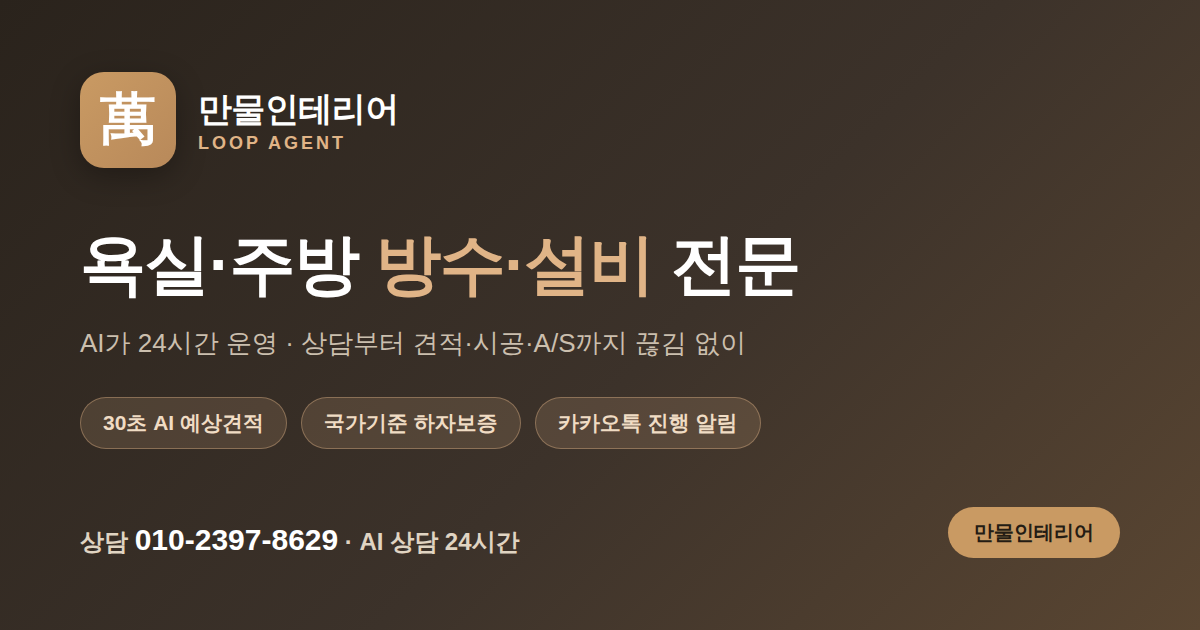
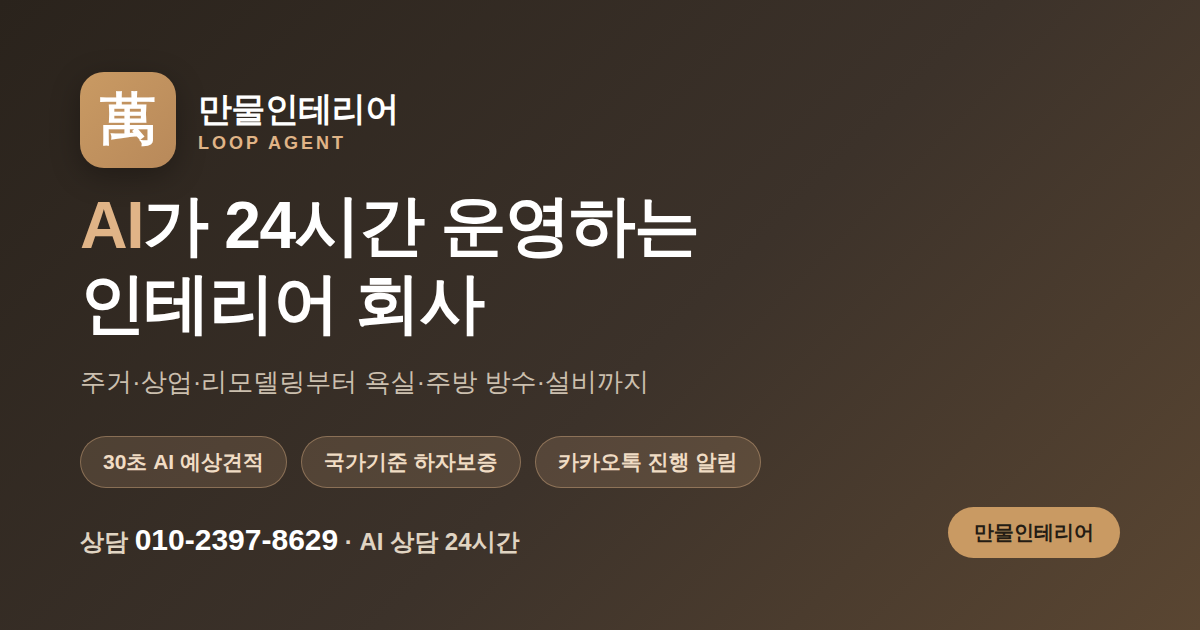
fix: 종합 인테리어 업체로 포지셔닝 정정 (방수 전문 아님) (#18)
* feat: AI가 운영하는 만물인테리어(Loop Agent) 웹사이트 구축

- 반응형 원페이지 사이트(index.html + css + js) 신규 추가
- AI 견적 시뮬레이터: 공간유형·면적·마감등급 기반 30초 예상 견적
- 히어로 AI 상담 챗봇 데모, 카운트업 통계, 스크롤 리빌 애니메이션
- 서비스/운영 프로세스/포트폴리오(필터)/리뷰/상담 폼 섹션
- 모든 콘텐츠를 data/site.json으로 분리하여 AI가 콘텐츠 운영 가능
- README를 프로젝트 소개/운영 가이드로 갱신

Claude-Session: https://claude.ai/code/session_01BxciST8GDcp2s474kRA1xc

* feat: n8n 워크플로·카카오톡 챗봇 연동 및 관리자 대시보드 추가

기획서(AI 운영형 홈페이지)의 웹→n8n→카카오톡→대표 승인 구조 구현.

- 단계형 AI 상담 문의 폼(4단계) → n8n 웹훅 전송(js/inquiry.js)
  · 미설정/데모 모드 시 localStorage 폴백
- 카카오톡 연동: 채널 상담 버튼(히어로·문의·연락처·FAB) + 설정 연결
- 관리자 대시보드(admin.html): 리드 목록·AI 1차 요약·우선순위 점수·
  승인/보류/거절(사람 승인 장치)·고객 안내문 초안(발송 분리)
- n8n 워크플로 2종(import용):
  · manmul-inquiry: 접수→AI요약(Claude)→DB저장→카카오 알림→대표 승인(Wait)→고객 발송
  · kakao-chatbot-skill: 카카오 i 오픈빌더 챗봇 스킬서버
- data/config.json: n8n 웹훅·카카오 채널 설정 분리
- integrations/INTEGRATION.md: 연동 가이드
- 기존 단순 상담 폼 제거, 관련 스타일/README 갱신

Claude-Session: https://claude.ai/code/session_01BxciST8GDcp2s474kRA1xc

* refactor: 관리자 목록 새로고침 훅(window.manmulAdminRefresh) 노출

단일 파일 데모의 화면 전환 등 외부에서 문의 목록을 다시 그릴 수 있도록
render 함수를 전역에 노출.

Claude-Session: https://claude.ai/code/session_01BxciST8GDcp2s474kRA1xc

* ci: GitHub Pages 자동 배포 워크플로 추가

정적 사이트를 GitHub Pages로 자동 배포. main 및 작업 브랜치 push 시 실행하며,
actions/configure-pages(enablement)로 Pages를 자동 활성화한다.

Claude-Session: https://claude.ai/code/session_01BxciST8GDcp2s474kRA1xc

* feat: 아파트멘터리형 사례 탐색 + n8n·카카오 자동화 프로세스 재구성

- 운영 방식 섹션을 "체계적·효율적 프로세스 = n8n·카카오톡"으로 재구성
[…]

Changed region(s): [[0.0617, 0.3016, 0.6783, 0.7841]]

diff --git a/index.html b/index.html
@@ -4,8 +4,8 @@
   <meta charset="UTF-8" />
   <meta name="viewport" content="width=device-width, initial-scale=1.0" />
   <title>만물인테리어 · Loop Agent — AI가 운영하는 인테리어 회사</title>
-  <meta name="description" content="욕실·주방 방수·설비 전문 만물인테리어. 상담부터 견적·시공·A/S까지 AI 루프 에이전트가 24시간 운영. 30초 즉시 견적, 국가기준 하자보증, 카카오톡 진행 알림." />
-  <meta name="keywords" content="만물인테리어, 욕실 방수, 주방 설비, 욕실 리모델링, 인테리어, 방수 공사, 인테리어 견적, AI 견적, 하자보증, 인테리어 상담" />
+  <meta name="description" content="AI 루프 에이전트가 24시간 운영하는 만물인테리어. 주거·상업 인테리어, 리모델링, 욕실·주방 방수·설비까지. 30초 즉시 견적, 국가기준 하자보증, 카카오톡 진행 알림." />
+  <meta name="keywords" content="만물인테리어, 인테리어, 아파트 인테리어, 상업 인테리어, 리모델링, 욕실 방수, 주방 설비, 인테리어 견적, AI 견적, 하자보증, 인테리어 상담" />
   <meta name="author" content="만물인테리어" />
   <meta name="theme-color" content="#b8895a" />
   <link rel="canonical" href="https://01023978629.github.io/manmool/" />
@@ -15,8 +15,8 @@
   <meta property="og:site_name" content="만물인테리어" />
   <meta property="og:locale" content="ko_KR" />
   <meta property="og:url" content="https://01023978629.github.io/manmool/" />
-  <meta property="og:title" content="만물인테리어 · 욕실·주방 방수·설비 전문" />
-  <meta property="og:description" content="욕실·주방 방수·설비 전문. AI가 24시간 운영 — 30초 예상견적, 국가기준 하자보증, 카카오톡 진행 알림." />
+  <meta property="og:title" content="만물인테리어 · AI가 24시간 운영하는 인테리어 회사" />
+  <meta property="og:description" content="주거·상업 인테리어부터 욕실·주방 방수·설비까지. 30초 AI 예상견적, 국가기준 하자보증, 카카오톡 진행 알림." />
   <meta property="og:image" content="https://01023978629.github.io/manmool/og-image.png" />
   <meta property="og:image:width" content="1200" />
   <meta property="og:image:height" content="630" />
@@ -24,8 +24,8 @@
 
   <!-- Twitter Card -->
   <meta name="twitter:card" content="summary_large_image" />
-  <meta name="twitter:title" content="만물인테리어 · 욕실·주방 방수·설비 전문" />
-  <meta name="twitter:description" content="욕실·주방 방수·설비 전문 · AI 24시간 운영. 30초 예상견적, 국가기준 하자보증." />
+  <meta name="twitter:title" content="만물인테리어 · AI가 24시간 운영하는 인테리어 회사" />
+  <meta name="twitter:description" content="주거·상업 인테리어부터 욕실·주방 방수·설비까지. 30초 AI 예상견적, 국가기준 하자보증." />
   <meta name="twitter:image" content="https://01023978629.github.io/manmool/og-image.png" />
 
   <!-- 구조화 데이터 (검색 노출) -->
@@ -35,7 +35,7 @@
     "@type": "HomeAndConstructionBusiness",
     "name": "만물인테리어",
     "alternateName": "Manmool Interior · Loop Agent",
-    "description": "욕실·주방 방수·설비 전문. AI 루프 에이전트가 24시간 운영하며 상담·견적·시공 관리·A/S를 하나의 업무 시스템으로 연결하는 인테리어 회사.",
+    "description": "AI 루프 에이전트가 24시간 운영하는 인테리어 회사. 주거·상업 인테리어, 리모델링, 욕실·주방 방수·설비를 상담·견적·시공 관리·A/S로 연결합니다.",
     "url": "https://01023978629.github.io/manmool/",
     "image": "https://01023978629.github.io/manmool/og-image.png",
     "telephone": "010-2397-8629",
@@ -49,7 +49,7 @@
     "openingHoursSpecification": [
       { "@type": "OpeningHoursSpecification", "dayOfWeek": ["Monday","Tuesday","Wednesday","Thursday","Friday","Saturday","Sunday"], "opens": "09:00", "closes": "20:00" }
     ],
-    "knowsAbout": ["욕실 방수","주방 설비","방수 공사","욕실 리모델링","인테리어","AI 예상견적","하자보증","A/S"]
+    "knowsAbout": ["주거 인테리어","상업 공간 인테리어","리모델링","욕실·주방 방수·설비","가구 큐레이션","AI 예상견적","하자보증","A/S"]
   }
   </script>
 
@@ -102,7 +102,7 @@
       <div class="hero-bg" aria-hidden="true"></div>
       <div class="container hero-inner">
         <div class="hero-text">
-          <span class="badge">🛁 욕실·주방 방수·설비 전문 · AI 운영</span>
+          <span class="badge">🤖 AI 루프 에이전트 운영 · 종합 인테리어</span>
           <h1 class="hero-title" data-bind="company.tagline">AI가 24시간 운영하는 만물인테리어</h1>
           <p class="hero-desc" data-bind="company.description">상담부터 견적, 시공 관리, 사후 관리까지 — 루프 에이전트가 끊임없이 순환하며 운영하는 차세대 인테리어 회사입니다.</p>
           <div class="hero-actions">
@@ -150,8 +150,8 @@
       <div class="container">
         <div class="section-head">
           <span class="eyebrow">SERVICES</span>
-          <h2>물 새는 곳, 확실하게</h2>
-          <p>욕실·주방 방수와 설비를 전문으로 시공합니다. 원인 진단부터 방수·배관·마감까지.</p>
+          <h2>만물(萬物)을 다루는 인테리어</h2>
+          <p>주거·상업·리모델링부터 욕실·주방 방수·설비까지, 공간에 필요한 모든 것을 AI와 함께합니다.</p>
         </div>
         <div class="cards-grid" id="servicesGrid"></div>
       </div>
@@ -182,7 +182,7 @@
         <div class="section-head">
           <span class="eyebrow">PHOTO</span>
           <h2>실제 시공 사례</h2>
-          <p>욕실·주방 방수·설비 현장을 사진으로 확인하세요. 공정·핵심 문제·해결 방법과 사용 자재까지 공개합니다.</p>
+          <p>실제 현장 사진으로 확인하세요. 공정·핵심 문제·해결 방법과 사용 자재까지 공개합니다.</p>
         </div>
         <div class="folio-filters" id="portfolioFilters"></div>
         <p class="folio-count" id="portfolioCount"></p>